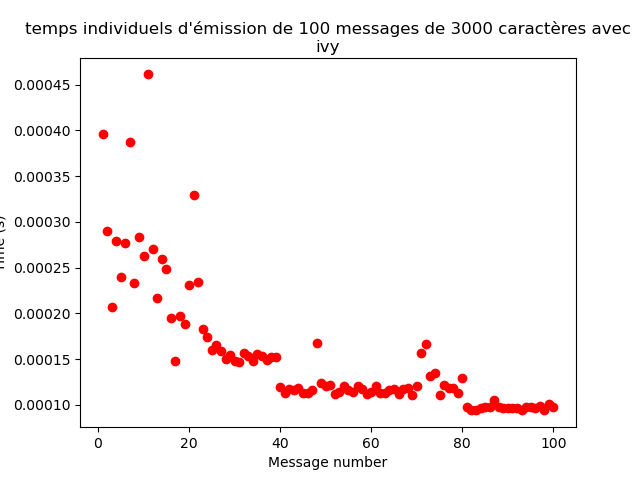
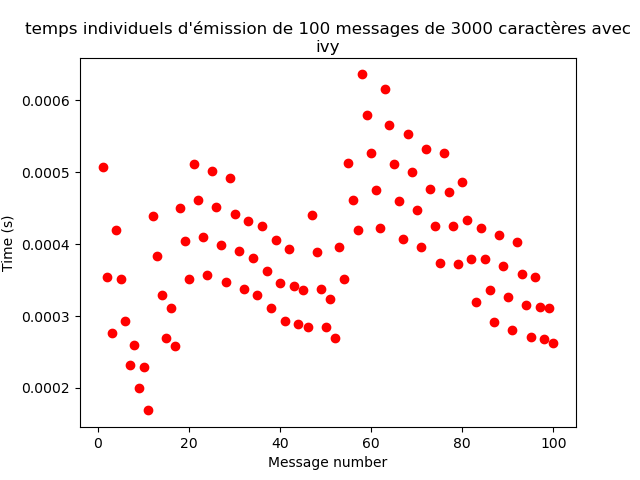
maj direct_msg + timezone

diff --git a/ivy_protocol.py b/ivy_protocol.py
@@ -87,6 +87,9 @@ class IvyProtocol(AbstractProtocol):
             #sleep(0.00001)
             #IvySendDirectMsg(self.client,1, message)
             IvySendMsg(message)
+    def send_direct_message(self, message):
+            IvySendDirectMsg(self.client,1, message)
+
             
     @staticmethod
     def lprint(fmt, *arg):
@@ -96,10 +99,17 @@ class IvyProtocol(AbstractProtocol):
     def onmsgproc(self,agent, *larg):
         #self.lprint('Received from %r: [%s] ', agent, larg[1])
         t1= time.time()
-        tmp = [self.id, larg[0], t1]
+        tmp = [self.id, larg[1], t1]
         self.plt_data.append(tmp)  
         self.id+=1
 
+    def onmsgprocbind(self,agent, *larg):
+        #self.lprint('Received from %r: [%s] ', agent, larg[1])
+        t1= time.time()
+        tmp = [self.id, larg[0], t1]
+        self.plt_data.append(tmp)  
+        self.id+=1
+        
     def onmsgproc2(self, agent, *larg):
         t1= time.time()
         self.msg = larg[self.id]
@@ -109,11 +119,15 @@ class IvyProtocol(AbstractProtocol):
         self.pop_hello = False
         
         
-        
+    
             
-    def receive_message(self,message_count,queue,total_rec):
-        #IvyBindDirectMsg(self.onmsgproc)
-        IvyBindMsg(self.onmsgproc, '(.*)')
+    def receive_message(self,message_count,queue,total_rec,direct_msg):
+        
+        if direct_msg:
+            IvyBindDirectMsg(self.onmsgproc)
+        else:
+            IvyBindMsg(self.onmsgprocbind, '(.*)')
+        
         #IvyBindMsg(self.onmsgproc2, 'flag0=(\S*) flag1=(\S*) flag2=(\S*) flag3=(\S*) flag4=(\S*) flag5=(\S*) flag6=(\S*) flag7=(\S*) flag8=(\S*) flag9=(\S*) flag10=(\S*) flag11=(\S*) flag12=(\S*) flag13=(\S*) flag14=(\S*) flag15=(\S*) flag16=(\S*) flag17=(\S*) flag18=(\S*) flag19=(\S*) flag20=(\S*) flag21=(\S*) flag22=(\S*) flag23=(\S*) flag24=(\S*) flag25=(\S*) flag26=(\S*) flag27=(\S*) flag28=(\S*) flag29=(\S*) flag30=(\S*) flag31=(\S*) flag32=(\S*) flag33=(\S*) flag34=(\S*) flag35=(\S*) flag36=(\S*) flag37=(\S*) flag38=(\S*) flag39=(\S*) flag40=(\S*) flag41=(\S*) flag42=(\S*) flag43=(\S*) flag44=(\S*) flag45=(\S*) flag46=(\S*) flag47=(\S*) flag48=(\S*) flag49=(\S*) flag50=(\S*) flag51=(\S*) flag52=(\S*) flag53=(\S*) flag54=(\S*) flag55=(\S*) flag56=(\S*) flag57=(\S*) flag58=(\S*) flag59=(\S*) flag60=(\S*) flag61=(\S*) flag62=(\S*) flag63=(\S*) flag64=(\S*) flag65=(\S*) flag66=(\S*) flag67=(\S*) flag68=(\S*) flag69=(\S*) flag70=(\S*) flag71=(\S*) flag72=(\S*) flag73=(\S*) flag74=(\S*) flag75=(\S*) flag76=(\S*) flag77=(\S*) flag78=(\S*) flag79=(\S*) flag80=(\S*) flag81=(\S*) flag82=(\S*) flag83=(\S*) flag84=(\S*) flag85=(\S*) flag86=(\S*) flag87=(\S*) flag88=(\S*) flag89=(\S*) flag90=(\S*) flag91=(\S*) flag92=(\S*) flag93=(\S*) flag94=(\S*) flag95=(\S*) flag96=(\S*) flag97=(\S*) flag98=(\S*) flag99=(\S*) flag100=(\S*) flag101=(\S*) flag102=(\S*) flag103=(\S*) flag104=(\S*) flag105=(\S*) flag106=(\S*) flag107=(\S*) flag108=(\S*) flag109=(\S*) flag110=(\S*) flag111=(\S*) flag112=(\S*) flag113=(\S*) flag114=(\S*) flag115=(\S*) flag116=(\S*) flag117=(\S*) flag118=(\S*) flag119=(\S*) flag120=(\S*) flag121=(\S*) flag122=(\S*) flag123=(\S*) flag124=(\S*) flag125=(\S*) flag126=(\S*) flag127=(\S*) flag128=(\S*) flag129=(\S*) flag130=(\S*) flag131=(\S*) flag132=(\S*) flag133=(\S*) flag134=(\S*) flag135=(\S*) flag136=(\S*) flag137=(\S*) flag138=(\S*) flag139=(\S*) flag140=(\S*) flag141=(\S*) flag142=(\S*) flag143=(\S*) flag144=(\S*) flag145=(\S*) flag146=(\S*) flag147=(\S*) flag148=(\S*) flag149=(\S*) flag150=(\S*) flag151=(\S*) flag152=(\S*) flag153=(\S*) flag154=(\S*) flag155=(\S*) flag156=(\S*) flag157=(\S*) flag158=(\S*) flag159=(\S*) flag160=(\S*) flag161=(\S*) flag162=(\S*) flag163=(\S*) flag164=(\S*) flag165=(\S*) flag166=(\S*) flag167=(\S*) flag168=(\S*) flag169=(\S*) flag170=(\S*) flag171=(\S*) flag172=(\S*) flag173=(\S*) flag174=(\S*) flag175=(\S*) flag176=(\S*) flag177=(\S*) flag178=(\S*) flag179=(\S*) flag180=(\S*) flag181=(\S*) flag182=(\S*) flag183=(\S*) flag184=(\S*) flag185=(\S*) flag186=(\S*) flag187=(\S*) flag188=(\S*) flag189=(\S*) flag190=(\S*) flag191=(\S*) flag192=(\S*) flag193=(\S*) flag194=(\S*) flag195=(\S*) flag196=(\S*) flag197=(\S*) flag198=(\S*) flag199=(\S*) #(\S*)')
         sleep(2)
         
@@ -124,8 +138,9 @@ class IvyProtocol(AbstractProtocol):
             print(self.send_end)
 
         print("here")
-        if self.pop_hello:
-            self.plt_data= self.plt_data[total_rec:]
+        if not direct_msg:
+            if self.pop_hello:
+                self.plt_data= self.plt_data[total_rec:]
         return self.plt_data
     
     def stopsocket(self):

diff --git a/message_analyzer.py b/message_analyzer.py
@@ -1,3 +1,4 @@
+import datetime
 import re
 from time import sleep, time
 import time
@@ -32,13 +33,11 @@ class MessageReceiver:
         plt.close()  # Ferme la figure pour libérer les ressources
 
         
-    def receive_messages(self, message_count, queue, flag,nmbre_rec,total_rec, multi_rec):
-        
-            print("hey")
-            self.data = self.protocol_obj.receive_message(message_count,queue,total_rec)
+    def receive_messages(self, message_count, queue, flag,nmbre_rec,total_rec, multi_rec,direct_msg):
+            self.data = self.protocol_obj.receive_message(message_count,queue,total_rec,direct_msg)
             self.protocol_obj.stopsocket()
             #print(self.data)
-            print(len(self.data))
+            #print(len(self.data))
 
             if(flag):
                 if self.protocol != "ivy":
@@ -63,11 +62,21 @@ class MessageReceiver:
                                 print("no match")
                             message, t0 = self.data[i][1].split("#")
                             t0= float(t0)
-                            
-                    print("Temps total de communication : ", (time.time() - start_time))
-                else:
                     
-                    print("Temps total de communication : ", (time.time() - float(self.data[0][-1])))
+                    end_time=time.time()
+                    maintenant = datetime.datetime.now()
+                    # Formater la date et l'heure selon le format souhaité
+                    format_date_heure = "%d/%m/%Y %H:%M:%S"
+                    date_heure_formatee = maintenant.strftime(format_date_heure)
+                    print("Temps total de communication  : "+str(date_heure_formatee), (end_time - start_time))
+                else:
+                    end_time=time.time()
+                    maintenant = datetime.datetime.now()
+                    # Formater la date et l'heure selon le format souhaité
+                    format_date_heure = "%d/%m/%Y %H:%M:%S"
+                    date_heure_formatee = maintenant.strftime(format_date_heure)
+                    print("Temps total de communication  : "+str(date_heure_formatee), (end_time - start_time))
+                    print("Temps total de communication : ", (end_time - float(self.data[0][-1])))
 
                     
 
@@ -80,9 +89,16 @@ class MessageReceiver:
                         self.plt_data.append(time_interval)
                 if multi_rec:
                     if(nmbre_rec == total_rec-1):
-                        print("Temps total de communication de tous les receveurs : ", (self.data[-1][2] - start_time))
-                else: 
-                    print("Temps total de communication : ", (self.data[-1][2] - start_time))
+                        maintenant = datetime.datetime.now()
+                        format_date_heure = "%d/%m/%Y %H:%M:%S"
+                        date_heure_formatee = maintenant.strftime(format_date_heure)
+                        print("Temps total de communication de tous les receveurs  au "+str(date_heure_formatee)+" : ", (self.data[-1][2] - start_time))
+                else:
+                    maintenant = datetime.datetime.now()
+                    format_date_heure = "%d/%m/%Y %H:%M:%S"
+                    date_heure_formatee = maintenant.strftime(format_date_heure)
+                    print("Temps total de communication  au "+str(date_heure_formatee)+" : ", (self.data[-1][2] - start_time)) 
+
 
 
                 self.draw_graph(self.bus, message_count, multi_rec) 

diff --git a/main.py b/main.py
@@ -35,6 +35,8 @@ def main():
     parser.add_argument('--flag', action='store_true', help="activer les flags pour simuler l'utilisation de regexp")
     parser.add_argument('--flag_count', default = 1, type=int, help='Nombre de flags à envoyer')
     parser.add_argument('--nbr_processes', default = 1, type=int, help='Nombre de receveurs créés')
+    parser.add_argument('--direct_msg', action='store_true', help="envoyer des messages ivy avec ivydirectmsg")
+
 
 
     param = parser.parse_args()
@@ -78,9 +80,9 @@ def main():
     nmbre_rec= param.nbr_processes
     recv_processes=[]
     for i in range(nmbre_rec):
-        receive_process = multiprocessing.Process(target=main_receive, args=(param.protocol, param.message_count, param.port,param.length, queue, logger, param.flag, i,param.nbr_processes, multi_recv))
+        receive_process = multiprocessing.Process(target=main_receive, args=(param.protocol, param.message_count, param.port,param.length, queue, logger, param.flag, i,param.nbr_processes, multi_recv,param.direct_msg))
         recv_processes.append(receive_process)
-    send_process = multiprocessing.Process(target=main_send, args=(param.protocol, param.message_count, param.port, param.length, queue, logger, param.sleep, param.flag, param.flag_count, param.nbr_processes))
+    send_process = multiprocessing.Process(target=main_send, args=(param.protocol, param.message_count, param.port, param.length, queue, logger, param.sleep, param.flag, param.flag_count, param.nbr_processes,param.direct_msg))
     for i in range(nmbre_rec):
         recv_processes[i].start()
     #sleep(2)

diff --git a/main_send.py b/main_send.py
@@ -15,7 +15,7 @@ from time import sleep
 
 
 
-def main_send(protocol, message_count, port,length, queue, logger, traitement, flag, flag_count, nbr_processes):
+def main_send(protocol, message_count, port,length, queue, logger, traitement, flag, flag_count, nbr_processes,direct_msg):
 
 
 
@@ -64,7 +64,15 @@ def main_send(protocol, message_count, port,length, queue, logger, traitement, f
             message_rand = ''.join(random.choice(string.ascii_letters + string.digits) for _ in range(length_of_string))+"#"
 
 
-
+        if protocol == "ivy":
+            if direct_msg:
+                for i in range(message_count):
+                    start_time = time.time()
+                    message = str(message_rand) + str(start_time)
+                    #message = "hello =" + str(start_time)
+                    #print(message)
+                    protocol_obj.send_direct_message(message)
+                    sleep(traitement)
         for i in range(message_count):
             start_time = time.time()
             message = str(message_rand) + str(start_time)

diff --git a/main_receive.py b/main_receive.py
@@ -13,7 +13,7 @@ from time import sleep
 
 
 
-def main_receive(protocol, message_count, port, length, queue, logger, flag, nmbre_rec, total_rec, multi_rec):
+def main_receive(protocol, message_count, port, length, queue, logger, flag, nmbre_rec, total_rec, multi_rec,direct_msg):
     
     
     com = "sub"
@@ -43,7 +43,7 @@ def main_receive(protocol, message_count, port, length, queue, logger, flag, nmb
         
     
     receiver = MessageReceiver(protocol_obj, protocol,length)
-    receiver.receive_messages(message_count, queue, flag,nmbre_rec, total_rec, multi_rec)
+    receiver.receive_messages(message_count, queue, flag,nmbre_rec, total_rec, multi_rec,direct_msg)
     
     '''sender = MessageSender(protocol_obj)
     sender.send_messages(message_count)'''

diff --git a/kafka_protocol.py b/kafka_protocol.py
@@ -45,9 +45,8 @@ class KafkaProtocol(AbstractProtocol):
             print(str(ex))
 
        
-    def receive_message(self, message_count, queue):        
+    def receive_message(self,message_count,queue,total_rec,direct_msg):        
 
-        queue.put("RECEIVER_READY")
         for msg in self.consumer:
             if msg.topic == '10001':
                 self.id += 1

diff --git a/zeromq.py b/zeromq.py
@@ -44,7 +44,7 @@ class ZeroMQProtocol(AbstractProtocol):
 
 
 
-    def receive_message(self,message_count,queue):
+    def receive_message(self,message_count,queue,total_rec,direct_msg):
         #initialisation
 
         topicfilter = "10001"
